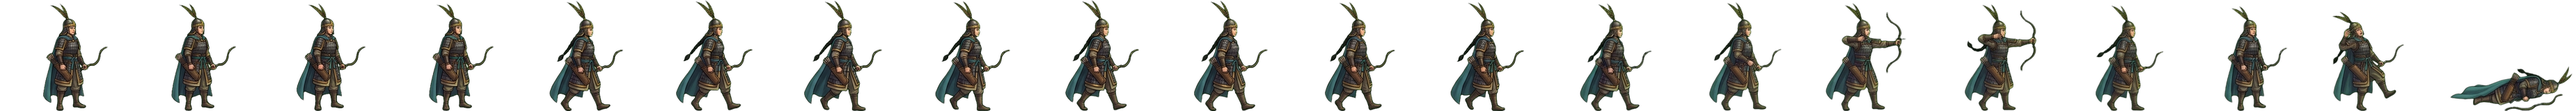
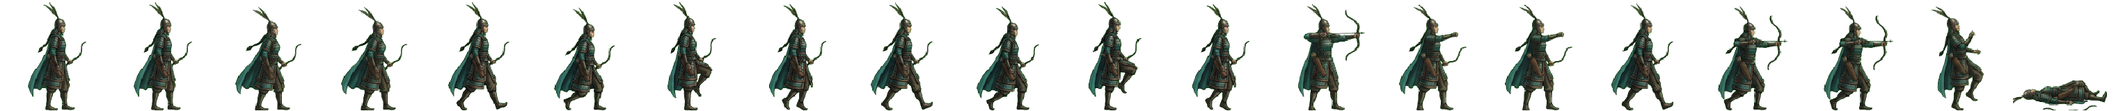
활 든 여장수 띠 20컷 다시 — 걷기가 한 자세였다 · 시위 당기기·쏘기 새로 (제미나이 4 Argon)
Claude-Session: https://claude.ai/code/session_01TRiuNBGbXbYg8PKZrR5zi4

diff --git a/src/realm/data/art.ts b/src/realm/data/art.ts
@@ -463,7 +463,7 @@ export const GEN_ANIM: Readonly<Partial<Record<string, { ar: number; body: numbe
   'g-bow': { ar: 192 / 160, body: 0.948, bow: true }, // 11-03 20컷 다시 (걷기가 한 자세였다)
   'g-spear': { ar: 189 / 160, body: 0.914 }, // 11-03 20컷 다시 (걷기가 한 자세였다)
   'w-spear': { ar: 184 / 160, body: 0.955 }, // 11-03 20컷 다시 (걷기가 한 자세였다)
-  'w-bow': { ar: 185 / 160, body: 0.967, bow: true },
+  'w-bow': { ar: 152 / 160, body: 0.968, bow: true }, // 11-03 20컷 다시 (걷기가 한 자세였다)
   mount: { ar: 246 / 160, body: 0.968 },
   // 제 그림 (GEN_OWN) — 글 주문만으로 받은 장수 (docs/realm/GENERAL-SPRITES.md)
   jumong: { ar: 243 / 160, body: 0.948, bow: true },
